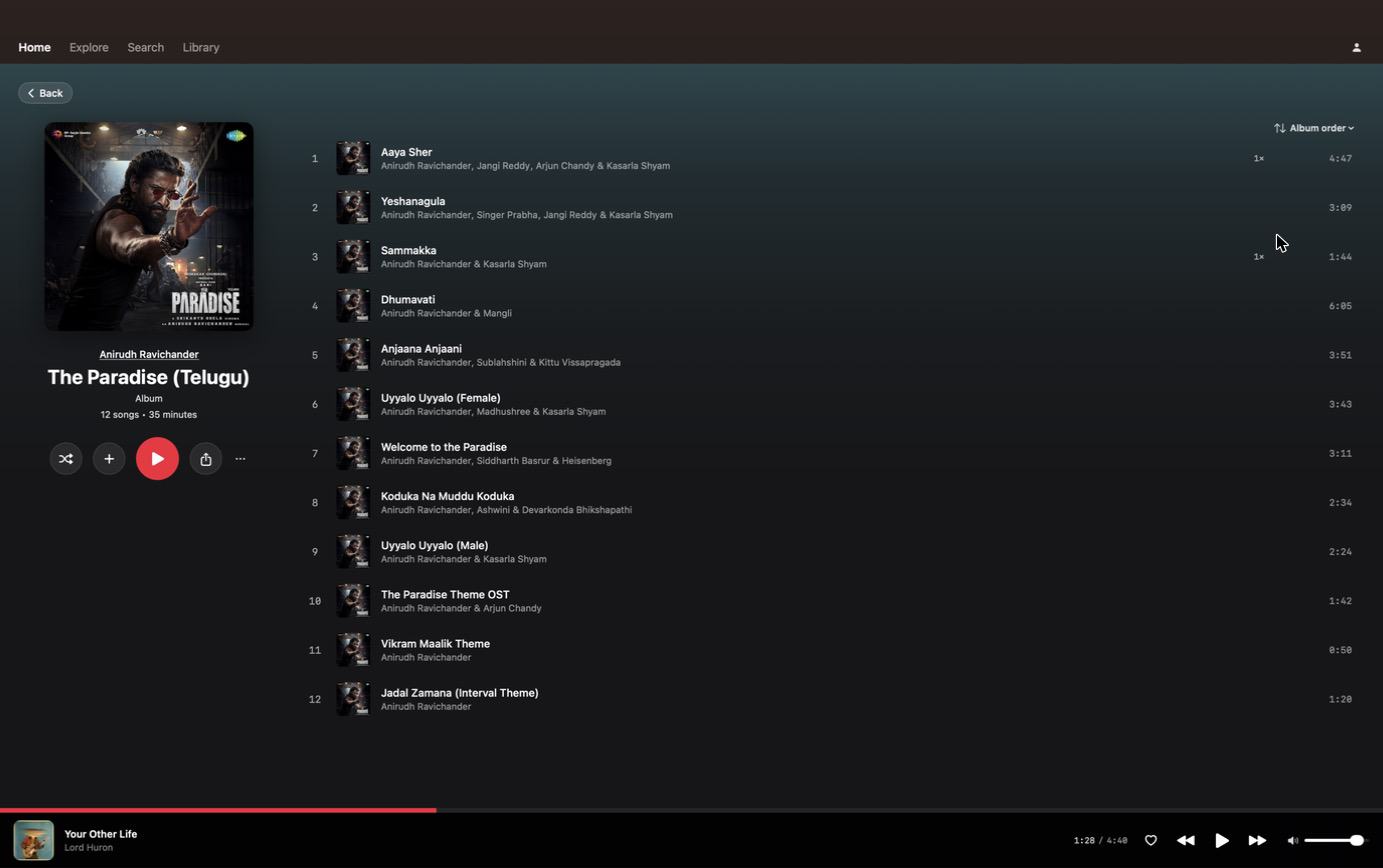
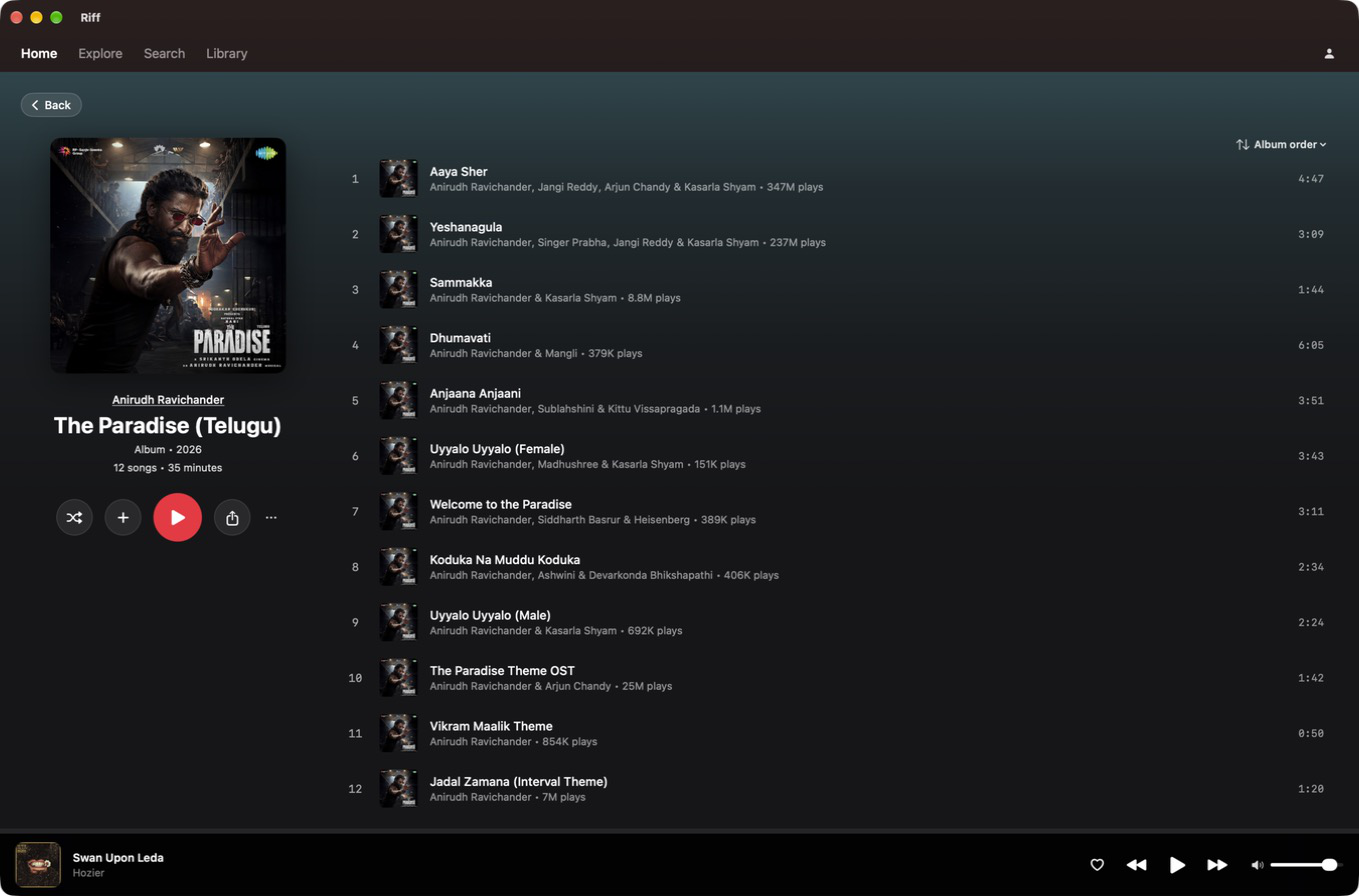
README: Now Playing shot + album re-shoot with global play counts
Both captured from the build with the playsText-backfill and year-line fixes; album page now shows per-row global plays matching YT web.

diff --git a/README.md b/README.md
@@ -50,9 +50,10 @@ What works today:
 
 | | |
 |---|---|
-| ![Home](docs/screenshots/home.png) *Home — personalized rails, mood chips, Riff Blend* | ![Album](docs/screenshots/album.png) *Album pages — YT Music web layout, native SwiftUI* |
-| ![Explore](docs/screenshots/explore.png) *Explore — charts, moods & genres* | ![Mood category](docs/screenshots/mood-category.png) *Mood category pages* |
-| ![Library](docs/screenshots/library.png) *Library — liked songs, playlists, albums* | <img src="docs/screenshots/mini-player.png" width="300" alt="Mini Player"> *Floating Mini Player — stays on top, even over full-screen apps* |
+| ![Home](docs/screenshots/home.png) *Home — personalized rails, mood chips, Riff Blend* | ![Now Playing](docs/screenshots/now-playing.png) *Now Playing — queue, lyrics, related, Autoplay* |
+| ![Album](docs/screenshots/album.png) *Album pages — native SwiftUI, global play counts* | ![Explore](docs/screenshots/explore.png) *Explore — charts, moods & genres* |
+| ![Mood category](docs/screenshots/mood-category.png) *Mood category pages* | ![Library](docs/screenshots/library.png) *Library — liked songs, playlists, albums* |
+| <img src="docs/screenshots/mini-player.png" width="300" alt="Mini Player"> *Floating Mini Player — stays on top, even over full-screen apps* | |
 
 *Screenshots are captured by the maintainer from a signed-in build (they contain a personal library, so they're not generated in CI).*
 
